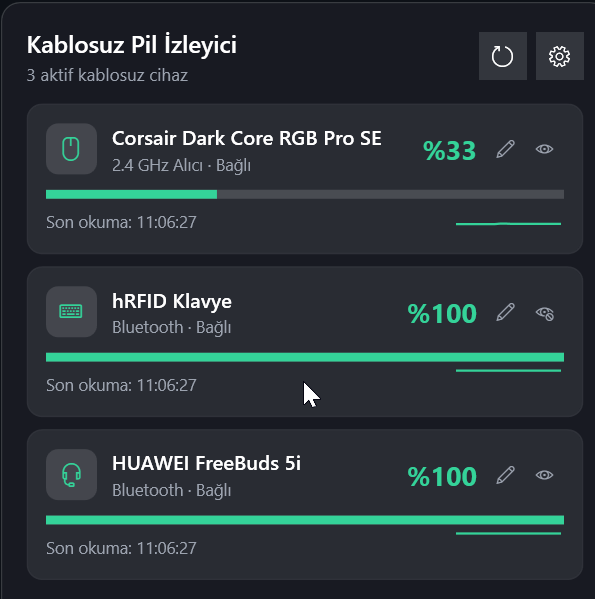
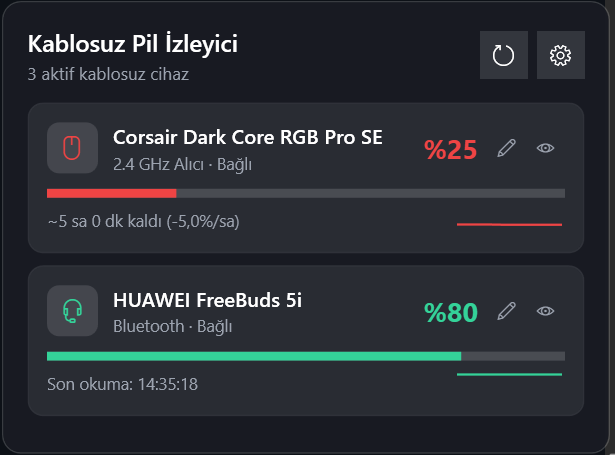
Ekran görüntüleri güncellendi

diff --git a/README.md b/README.md
@@ -15,7 +15,9 @@
 ## 📸 Ekran Görüntüleri
 
 <p align="center">
-  <img src="docs/flyout.png" width="420" alt="Kablosuz Pil İzleyici Flyout Paneli">
+  <img src="docs/flyout.png" width="380" alt="Kablosuz Pil İzleyici Flyout Paneli">
+  &nbsp;&nbsp;
+  <img src="docs/settings.png" width="380" alt="Uygulama İçi Ayarlar Paneli">
 </p>
 
 <p align="center">
